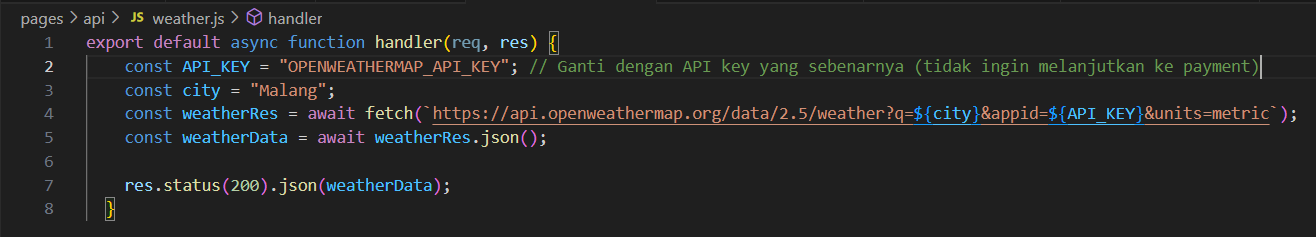
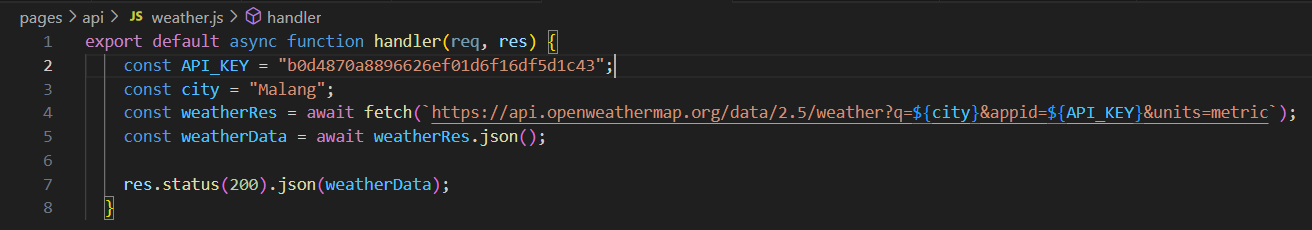
Pertemuan 3 : Next.js

diff --git a/next-js/pages/api/weather.js b/next-js/pages/api/weather.js
@@ -1,5 +1,5 @@
 export default async function handler(req, res) {
-    const API_KEY = "OPENWEATHERMAP_API_KEY"; // Ganti dengan API key yang sebenarnya (tidak ingin melanjutkan ke payment)
+    const API_KEY = "b0d4870a8896626ef01d6f16df5d1c43";
     const city = "Malang"; 
     const weatherRes = await fetch(`https://api.openweathermap.org/data/2.5/weather?q=${city}&appid=${API_KEY}&units=metric`);
     const weatherData = await weatherRes.json();

diff --git a/next-js/README.md b/next-js/README.md
@@ -67,4 +67,5 @@ pengguna dari API https://jsonplaceholder.typicode.com/users.
 3. Buat API route yang mengembalikan data cuaca dari API eksternal (misalnya, OpenWeatherMap) 
 dan tampilkan data tersebut di halaman front-end. 
 ![alt text](img/T-3.png)
+![alt text](img/T-5.png)
 ![alt text](img/T-4.png)
